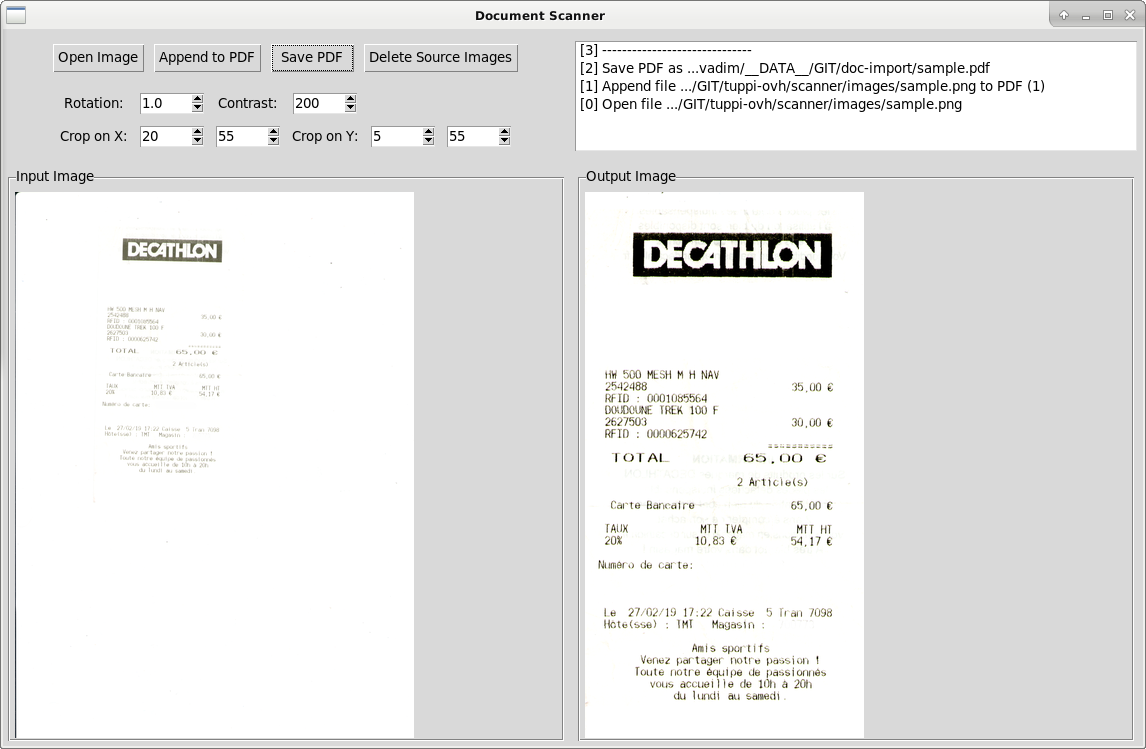
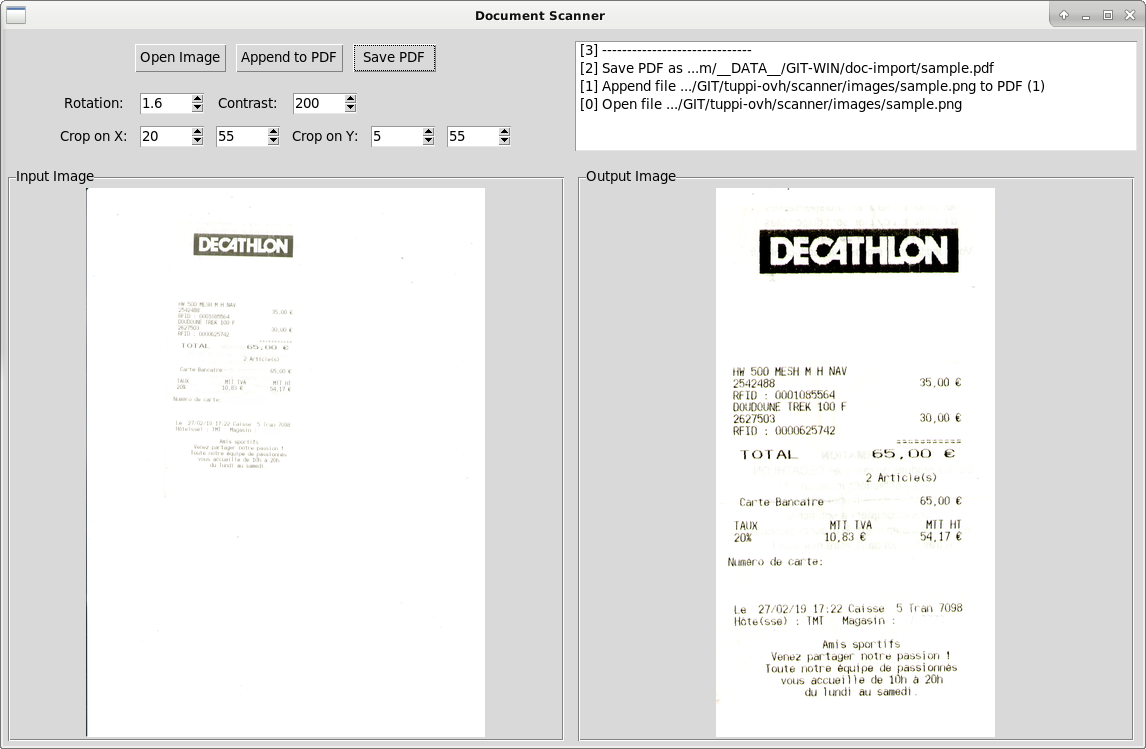
Align images in the image frames (issue #13)

diff --git a/gui.py b/gui.py
@@ -124,9 +124,6 @@ class Root(Tk):
         # Commands: save
         self.buttonShow = ttk.Button(self.buttonFrame, text = "Save PDF", command = self.outputFile)
         self.buttonShow.grid(column = 2, row = 0, padx = DEFAULT_PAD, pady = DEFAULT_PAD)
-        # Commands: button delete source images
-        self.buttonInput = ttk.Button(self.buttonFrame, text = "Delete Source Images", command = self.openFile)
-        self.buttonInput.grid(column = 3, row = 0, padx = DEFAULT_PAD, pady = DEFAULT_PAD)
 
         # rotation label
         self.rotateLabel = ttk.Label(self.settingFrame, text = "Rotation:")
@@ -190,12 +187,12 @@ class Root(Tk):
         # show input
         self.canvas = Canvas(self.inputImageFrame, width=DEFAULT_INPUT_IMAGE_SIZE, height=DEFAULT_INPUT_IMAGE_SIZE)  
         self.canvas.pack()
-        self.canvasImage = self.canvas.create_image(5, 5, anchor=NW, image=emptyPhotoImg) 
+        self.canvasImage = self.canvas.create_image(DEFAULT_INPUT_IMAGE_SIZE/2, DEFAULT_INPUT_IMAGE_SIZE/2, anchor=CENTER, image=emptyPhotoImg) 
         self.canvas.image = emptyPhotoImg
         # show output
         self.outputCanvas = Canvas(self.outputImageFrame, width=DEFAULT_INPUT_IMAGE_SIZE, height=DEFAULT_INPUT_IMAGE_SIZE)  
         self.outputCanvas.pack()
-        self.outputCanvasImage = self.outputCanvas.create_image(5, 5, anchor=NW, image=emptyPhotoImg) 
+        self.outputCanvasImage = self.outputCanvas.create_image(DEFAULT_INPUT_IMAGE_SIZE/2, DEFAULT_INPUT_IMAGE_SIZE/2, anchor=CENTER, image=emptyPhotoImg) 
         self.outputCanvas.image = emptyPhotoImg
 
     def log(self, message):

diff --git a/README.md b/README.md
@@ -1,7 +1,7 @@
 # Document Scanner
 
-The main idea of this project is to simplify the document scanning procedure:
-- scan using the physical scanner (maybe comming soon)
+The main idea of this project is to simplify the document scanning process:
+- open scanned image file (done)
 - rotate and apply contrast (done)
 - save output as pdf file (done)
 
